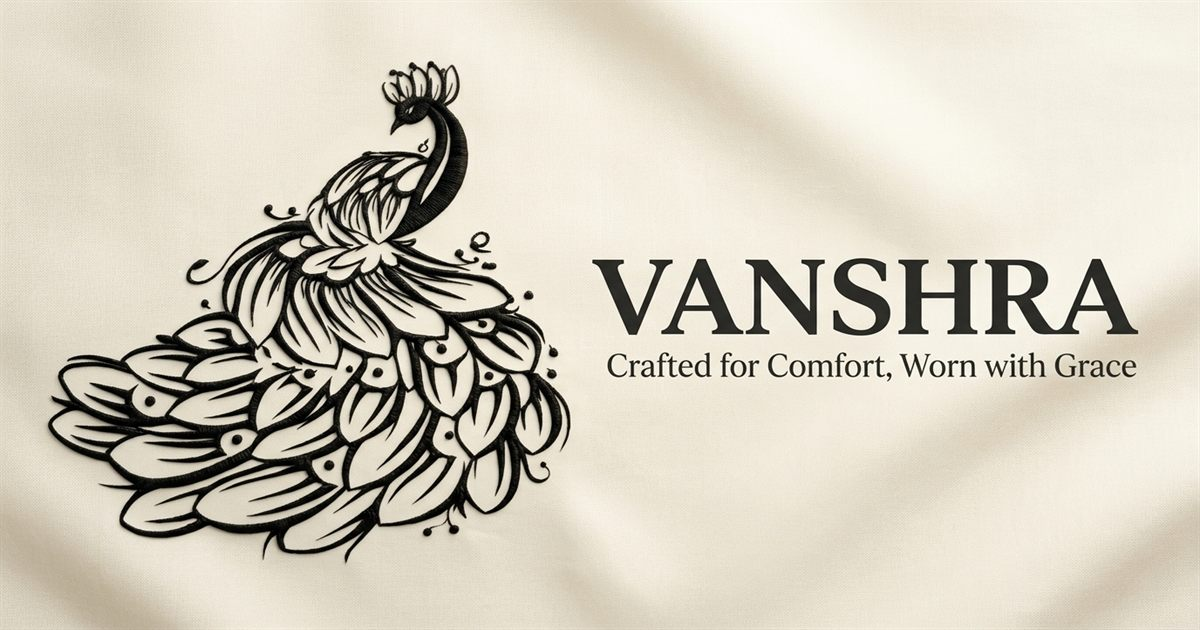
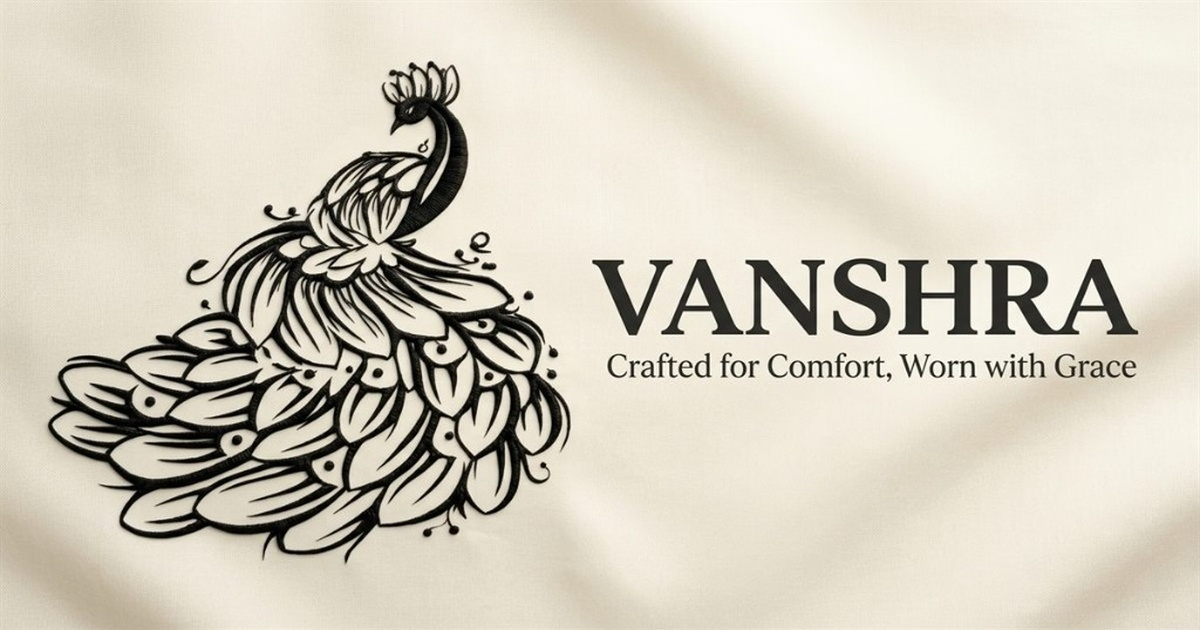
feat: set official peacock silk preview image and full cross-platform meta tags

diff --git a/index.html b/index.html
@@ -11,7 +11,13 @@
     <meta name="theme-color" content="#181512" />
     <link rel="canonical" href="https://vanshra-store.vercel.app/" />
 
-    <!-- Open Graph / Facebook / WhatsApp Rich Sharing Previews -->
+    <!-- Universal & Schema.org Itemprop Tags -->
+    <meta itemprop="name" content="VANSHRA | Handcrafted Kurtis & Luxury Ethnic Silhouettes" />
+    <meta itemprop="description" content="Thoughtfully Crafted, Worn with Grace. Discover premium hand-embroidered Kurtis, Daily Wear Tops, and Festive Co-ords from Jaipur. Express Nationwide Delivery." />
+    <meta itemprop="image" content="https://vanshra-store.vercel.app/vanshra-og-preview.jpg" />
+    <meta name="image" content="https://vanshra-store.vercel.app/vanshra-og-preview.jpg" />
+
+    <!-- Open Graph / Facebook / WhatsApp / Instagram / Telegram / Snapchat / LinkedIn Rich Sharing -->
     <meta property="og:type" content="website" />
     <meta property="og:url" content="https://vanshra-store.vercel.app/" />
     <meta property="og:title" content="VANSHRA | Handcrafted Kurtis & Luxury Ethnic Silhouettes" />
@@ -25,13 +31,14 @@
     <meta property="og:site_name" content="VANSHRA" />
     <meta property="og:locale" content="en_IN" />
 
-    <!-- Twitter Card Meta Tags -->
+    <!-- Twitter / X Card Meta Tags -->
     <meta name="twitter:card" content="summary_large_image" />
     <meta name="twitter:url" content="https://vanshra-store.vercel.app/" />
-    <meta name="twitter:title" content="VANSHRA | Handcrafted Kurtis & Ethnic Apparel" />
-    <meta name="twitter:description" content="Explore handcrafted Chanderi silk kurtis and comfortable silhouettes. Secure Razorpay & UPI Checkout." />
+    <meta name="twitter:title" content="VANSHRA | Handcrafted Kurtis & Luxury Ethnic Silhouettes" />
+    <meta name="twitter:description" content="Thoughtfully Crafted, Worn with Grace. Discover premium hand-embroidered Kurtis, Daily Wear Tops, and Festive Co-ords from Jaipur." />
     <meta name="twitter:image" content="https://vanshra-store.vercel.app/vanshra-og-preview.jpg" />
     <meta name="twitter:image:alt" content="VANSHRA - Handcrafted Apparel" />
+    <link rel="apple-touch-icon" href="/vanshra-logo.png" />
 
     <!-- Google Search Structured Data (JSON-LD Schema) for ClothingStore & Brand -->
     <script type="application/ld+json">
